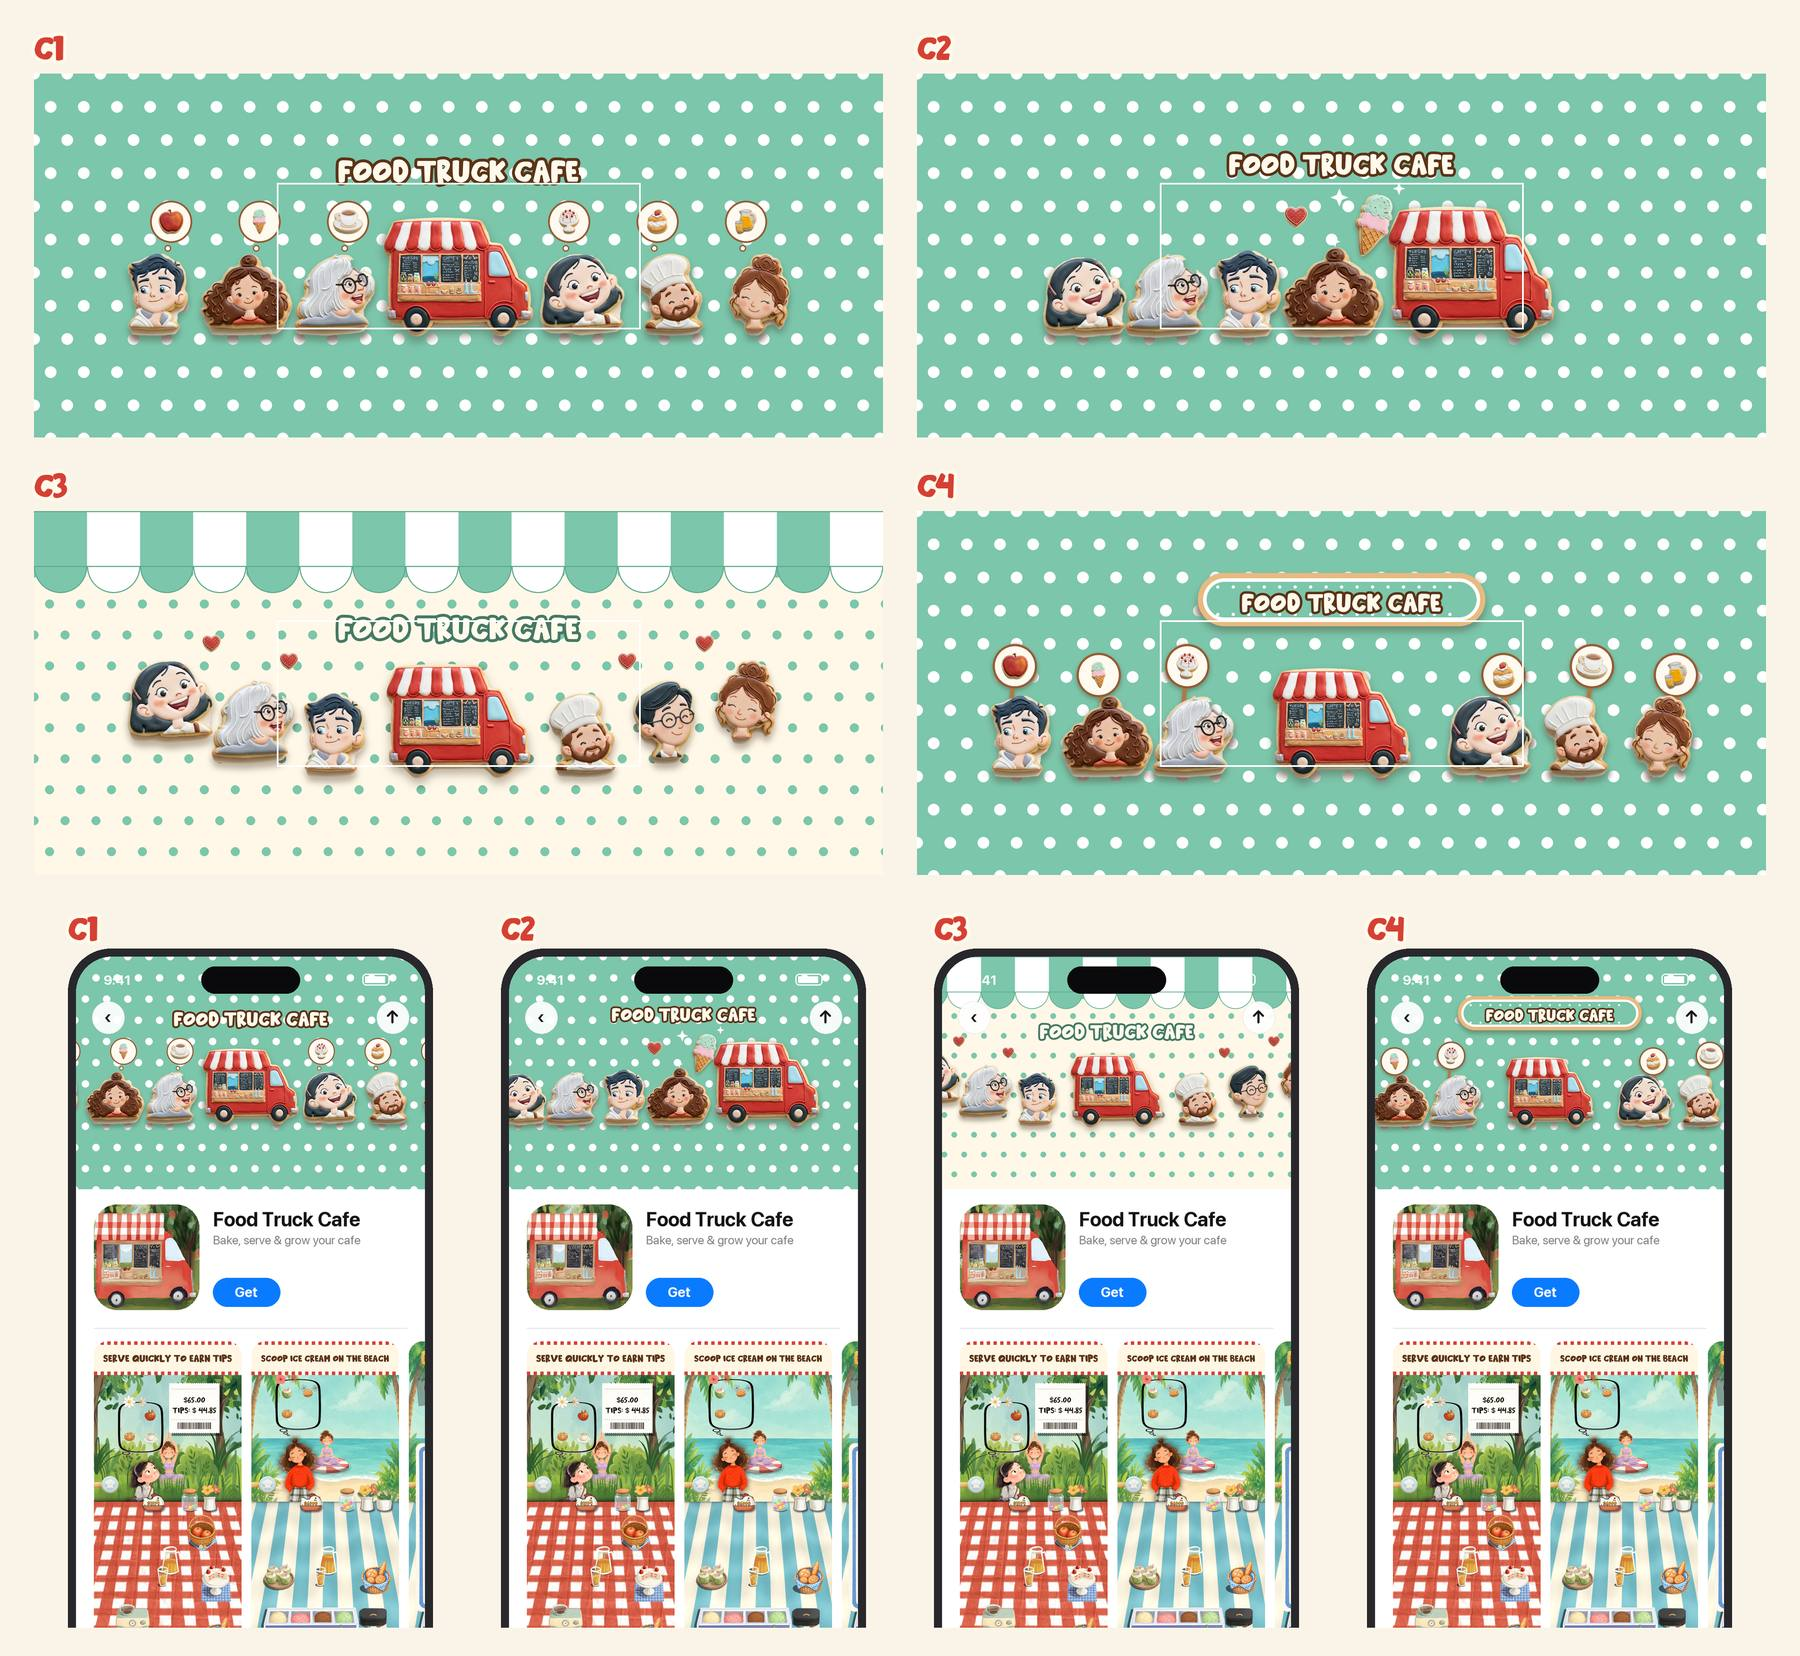
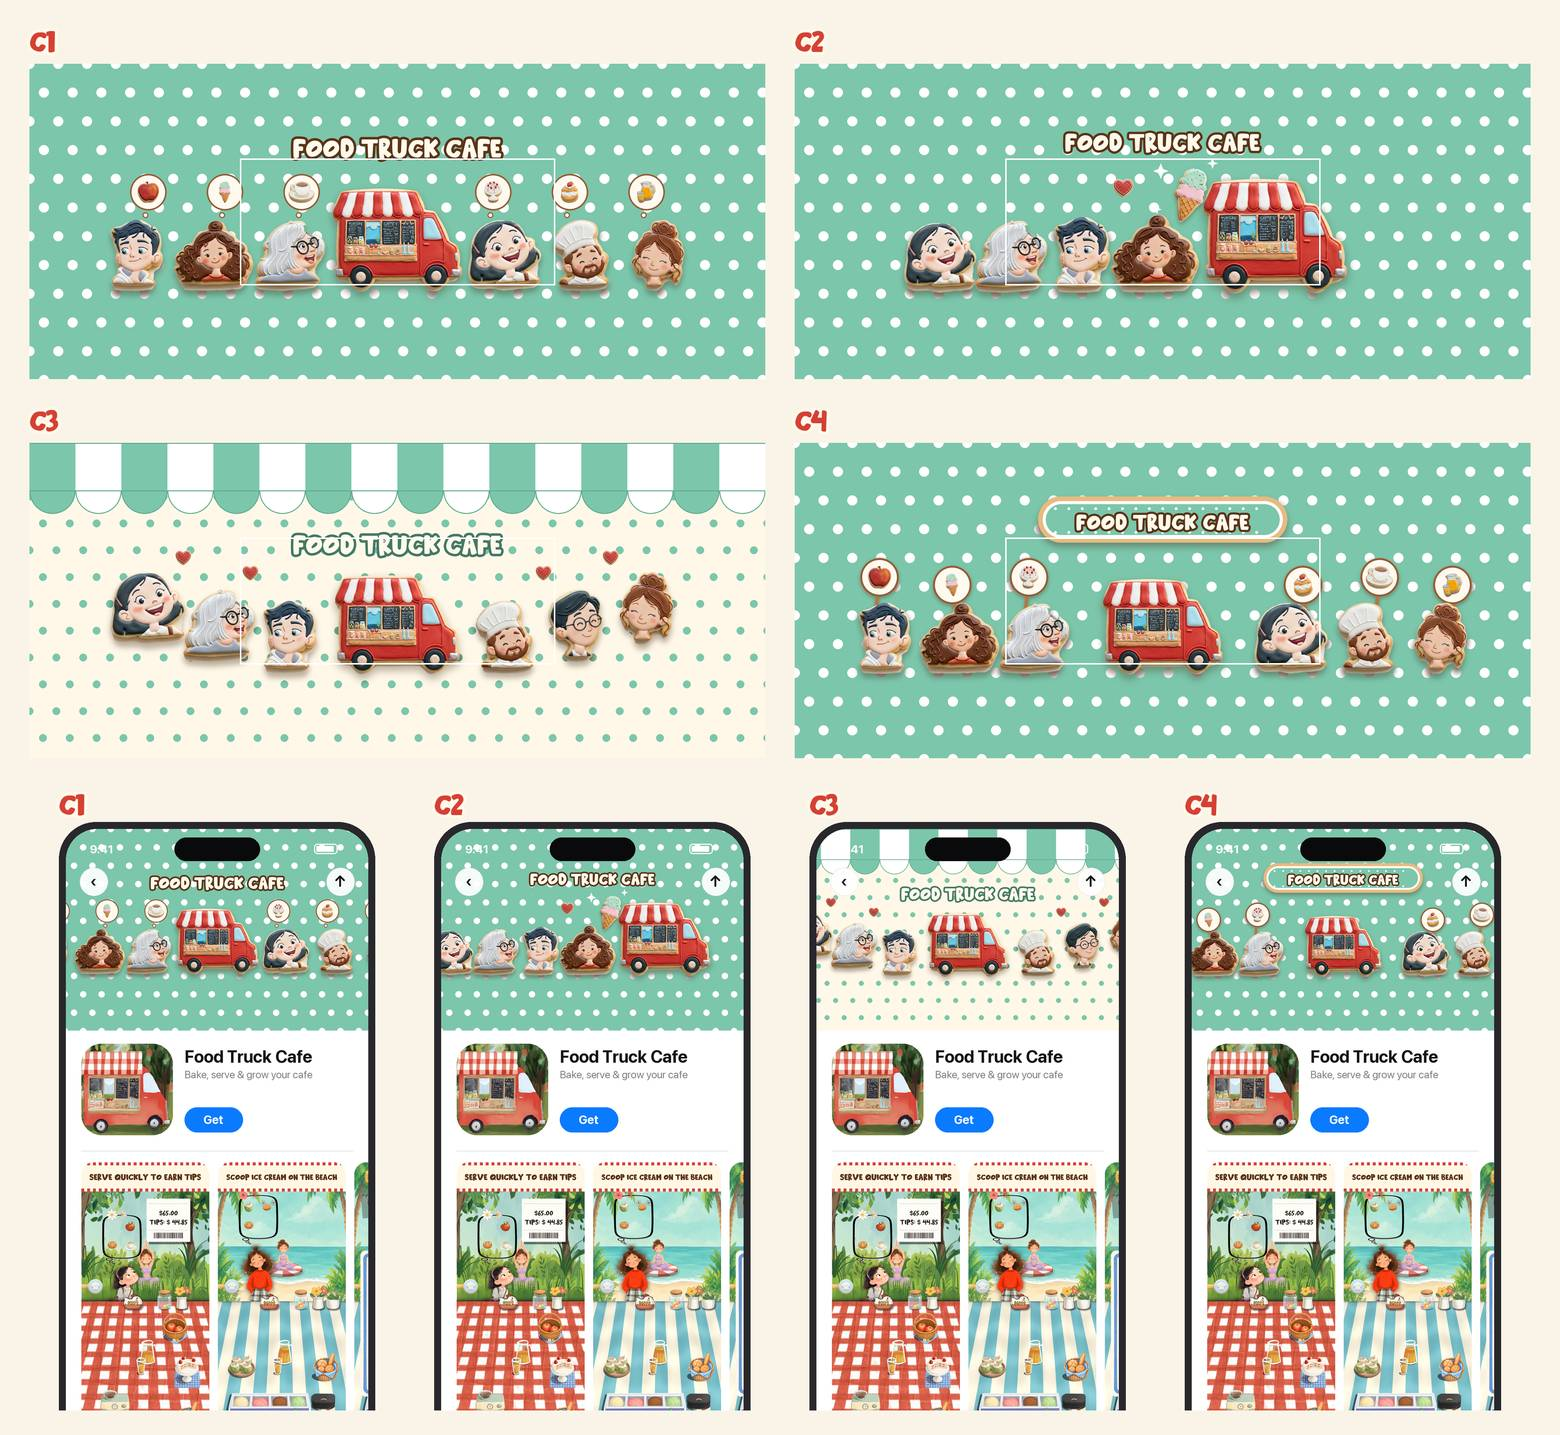
Report: four Header variants from C (cookie customers) and four Search Results variants from A (road trip), on the owner's pick

diff --git a/Docs/tools/report_page/index.html b/Docs/tools/report_page/index.html
@@ -78,7 +78,7 @@ h3 small{font-weight:600;color:var(--soft);font-size:13px;margin-left:6px}
 <p><b>C chapter tab:</b> three cabin scenes from your new direction (pink, white, mint; cabin with a big window onto a ski resort), to pick from.</p>
 <p><b>Table start places fixed</b> (whole box out of the safe area): Current.</p>
 <p><b>Ads fix:</b> approved; in the next build.</p>
-<p><b>Header and Search Results:</b> four proposals in Q&amp;A, pick one.</p>
+<p><b>Header (from C) and Search (from A):</b> four variants each in Q&amp;A.</p>
 </div>
 <div class="who p2"><h3>Me</h3>
 <p>I watch the review and tell you when the release is live.</p>
@@ -86,19 +86,23 @@ h3 small{font-weight:600;color:var(--soft);font-size:13px;margin-left:6px}
 </div>
 
 <h2 id="qa"><span class="n">2</span>Q&amp;A</h2>
-<div class="q"><h3>Header and Search Results: four proposals (23 Nov)</h3>
-<p>Each proposal is one Header and a matching Search Results picture, made from the game's own art. Left: the two pictures (white box: Apple's safe area, the part every device shows). Right: how they look on an iPhone.</p>
-<figure><img src="hdrp_a.jpg" alt="Proposal A: a wide banner where the orchard on the left blends into the beach on the right, the red food truck on a road in the middle beside the words Food Truck Cafe, orchard to beach; the search picture shows the same scene with two tilted phones, the picnic table and the beach table, and the words Bake and serve on the road"><figcaption>A. Road trip: the truck drives from the chapter 1 orchard to the chapter 2 beach. Search: “Bake &amp; serve on the road”.</figcaption></figure>
-<figure><img src="hdrp_b.jpg" alt="Proposal B: the red gingham picnic cloth seen from above with the game's foods around a cream label reading Food Truck Cafe, a picnic table full of treats; the search picture shows a cream label Serve every order beside a phone with the gameplay"><figcaption>B. The picnic table: the cloth from above, full of our foods. Search: “Serve every order”.</figcaption></figure>
-<figure><img src="hdrp_c.jpg" alt="Proposal C: a mint background with white dots, the cookie food truck in the middle under Food Truck Cafe, customer-head cookies on both sides with thought bubbles of apple, ice cream, coffee, cake, choux and juice; the search picture shows Meet your customers, four cookie heads and a phone with the gameplay"><figcaption>C. Cookie customers: the cookie truck and the customer cookies wishing for foods, on our mint. Search: “Meet your customers”.</figcaption></figure>
-<figure><img src="hdrp_d.jpg" alt="Proposal D: the night beach of the chapter 2 map with a row of day dots, days 1 to 5 done with stars, day 6 red with the cookie truck above it, the later days locked, under Food Truck Cafe; the search picture shows A new stop every day and two phones, the table and the map"><figcaption>D. The map, day by day: the night beach with the day road and the truck on day 6. Search: “A new stop every day”.</figcaption></figure>
-<p><b>Apple's sizes:</b> Header 3840 × 1646 (21:9), safe area 1646 × 661 in the middle; Search Results 3:2, 1920 × 1280 up to 3840 × 2560, safe area about the middle 56 % × 40 %; no prices, links or awards; added any day without a new version.</p>
+<div class="q"><h3>Header (from C) and Search Results (from A): variants (23 Nov)</h3>
+<figure><img src="hdrv_header.jpg" alt="Four header banners built on the cookie customers idea, each with an iPhone store page below. C1: mint with white dots, the cookie truck in the middle, three customer cookies a side each with a food bubble, Food Truck Cafe above. C2: the same mint, four customers queue at the truck's window and the girl in front is handed an ice cream with sparkles and a heart. C3: cream with mint dots under a mint and white scalloped awning, six customers in a gentle arc around the truck, little hearts, the name in mint-edged letters. C4: mint with dots, the name on a cookie plaque with white icing above the truck, the customers hold up round signs of apple, ice cream, cake, choux, coffee and juice"><figcaption>Headers C1 to C4 (white box: Apple's safe area), and each on an iPhone store page.</figcaption></figure>
+<figure><img src="hdrv_search.jpg" alt="Four search pictures built on the road trip idea, each in an iPhone search below. A1: the chapter 1 forest blending into the chapter 2 beach, a road along the bottom with the small red truck, two tilted phones and the words Bake and serve on the road. A2: the big red truck on the road in front, one big phone with the picnic table, the same words. A3: forest on the left with the picnic table phone, beach on the right with the beach table phone, the truck on the road between them, the words From picnic to beach. A4: a winding road from the forest to the beach with the truck on it, the picnic table and the beach table as round pictures, Bake and serve on the road"><figcaption>Search Results A1 to A4, and each in an iPhone search.</figcaption></figure>
+<ul>
+<li><b>Headers:</b> C1 tidied (two customers a side always in view); C2 the queue at the window, the front one handed an ice cream; C3 cream with mint dots under a striped awning, customers in an arc; C4 customers hold up food signs, the name on a cookie plaque.</li>
+<li><b>Search:</b> A1 tidied (one forest and one beach, no repeated copies); A2 the big truck and one big phone; A3 split, picnic left and beach right, "From picnic to beach"; A4 a winding road with both tables as round pictures.</li>
+</ul>
 <ul class="checks">
-<li><label><input type="checkbox" data-id="qa.hdrp23.a"> Use A</label></li>
-<li><label><input type="checkbox" data-id="qa.hdrp23.b"> Use B</label></li>
-<li><label><input type="checkbox" data-id="qa.hdrp23.c"> Use C</label></li>
-<li><label><input type="checkbox" data-id="qa.hdrp23.d"> Use D</label></li>
-<li><label><input type="checkbox" data-id="qa.hdrp23.gemini"> Ask Gemini/ChatGPT to paint my pick</label></li>
+<li><label><input type="checkbox" data-id="qa.hdrv23.c1"> Header C1</label></li>
+<li><label><input type="checkbox" data-id="qa.hdrv23.c2"> Header C2</label></li>
+<li><label><input type="checkbox" data-id="qa.hdrv23.c3"> Header C3</label></li>
+<li><label><input type="checkbox" data-id="qa.hdrv23.c4"> Header C4</label></li>
+<li><label><input type="checkbox" data-id="qa.hdrv23.a1"> Search A1</label></li>
+<li><label><input type="checkbox" data-id="qa.hdrv23.a2"> Search A2</label></li>
+<li><label><input type="checkbox" data-id="qa.hdrv23.a3"> Search A3</label></li>
+<li><label><input type="checkbox" data-id="qa.hdrv23.a4"> Search A4</label></li>
+<li><label><input type="checkbox" data-id="qa.hdrv23.paint"> Ask Gemini/ChatGPT to paint my picks</label></li>
 </ul>
 </div>
 
